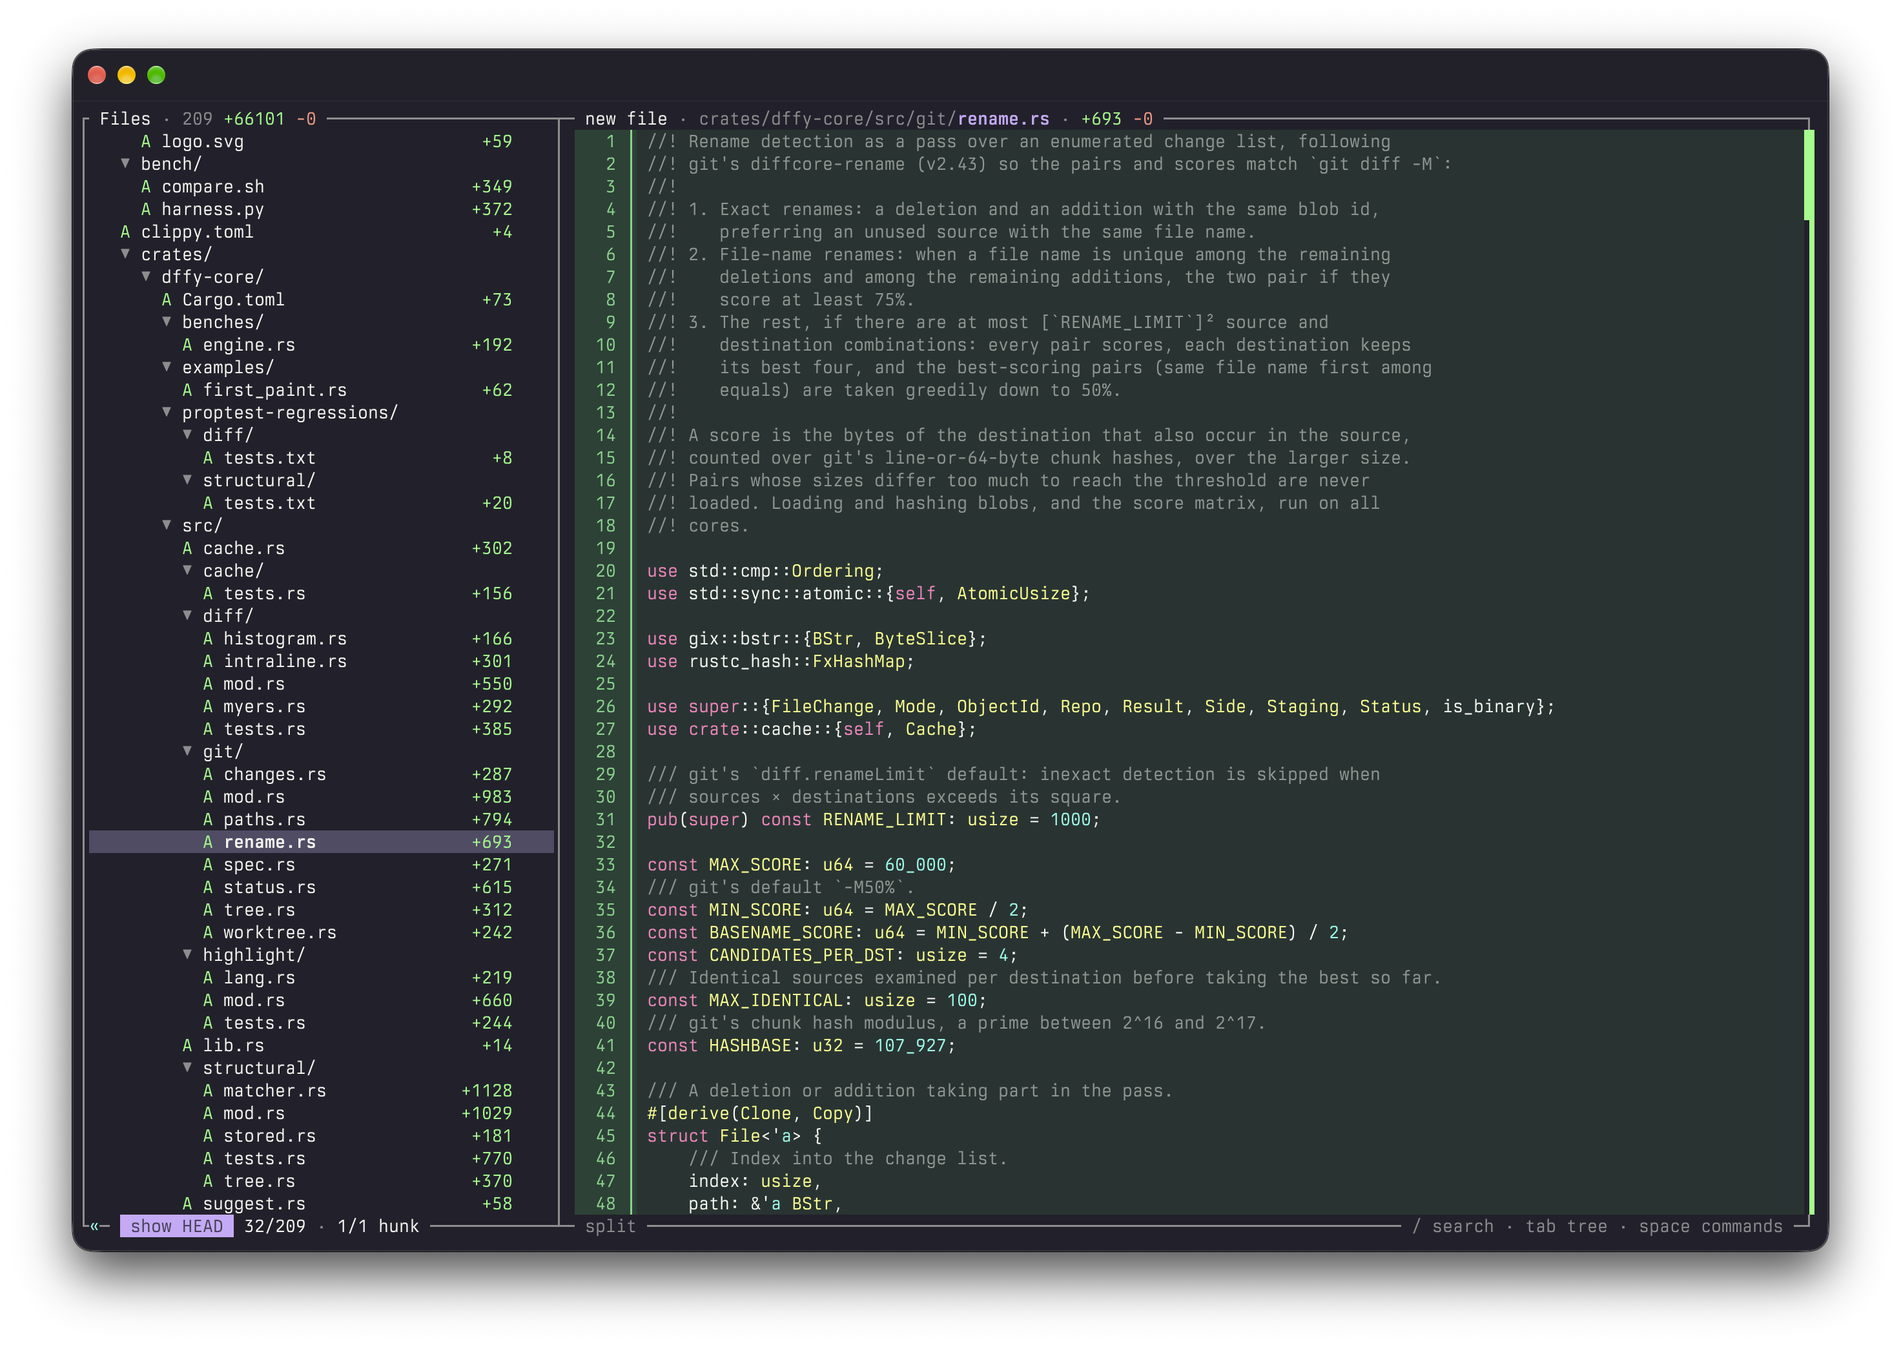
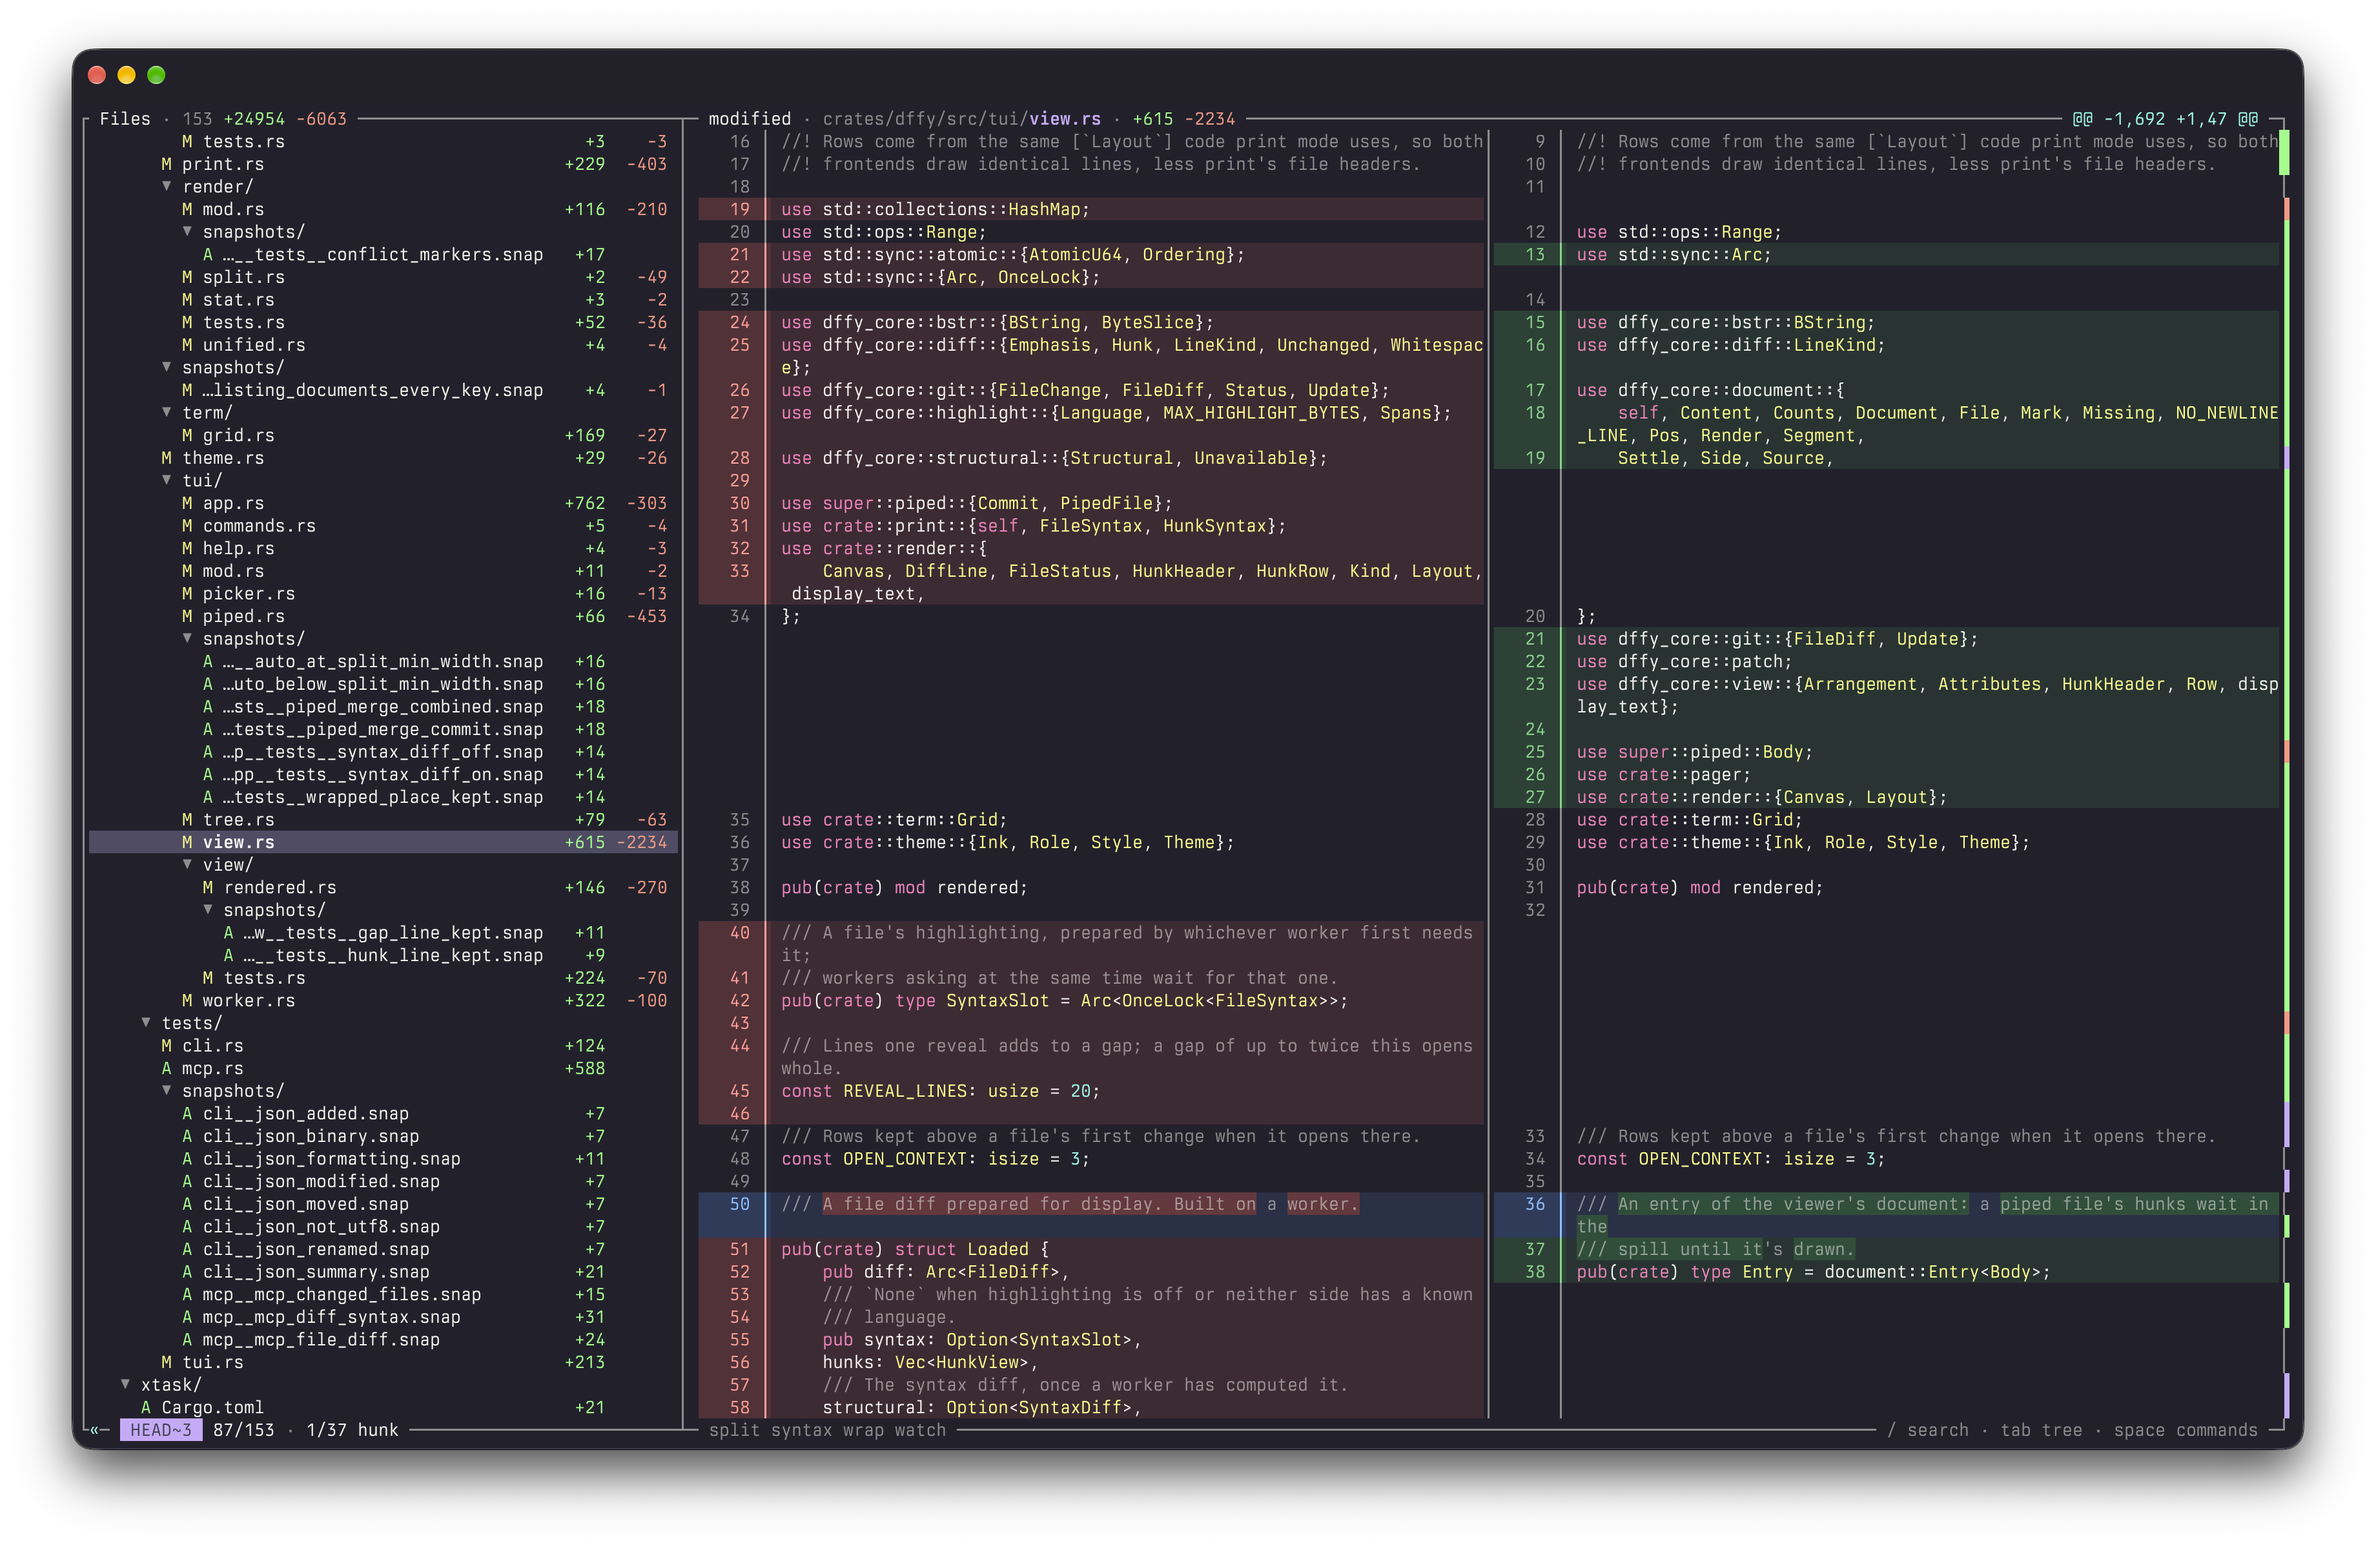
chore: bump and minor details

diff --git a/crates/xtask/src/bump.rs b/crates/xtask/src/bump.rs
@@ -1,0 +1,151 @@
+//! `cargo xtask bump <version>`: sets the release version everywhere it's
+//! written, so `task release` finds the tag matching Cargo. That's the
+//! workspace version (dffy, the plugins, xtask), dffy-core's own version,
+//! and the version requirement of every path dependency between workspace
+//! crates. `Cargo.lock` is refreshed for the workspace crates only.
+
+use std::fs;
+use std::path::{Path, PathBuf};
+use std::process::Command;
+
+use crate::{ROOT, Result, output};
+
+pub(crate) fn main(args: &[String]) -> Result<()> {
+    let [version] = args else {
+        return Err("usage: cargo xtask bump <version>, e.g. 0.3.0".to_owned());
+    };
+    let version = version.strip_prefix('v').unwrap_or(version);
+    if !is_version(version) {
+        return Err(format!(
+            "{version}: not a version of the form MAJOR.MINOR.PATCH"
+        ));
+    }
+    let root = Path::new(ROOT);
+    let mut changed = Vec::new();
+    for path in manifests(root)? {
+        let text = fs::read_to_string(&path).map_err(|e| format!("{}: {e}", path.display()))?;
+        let bumped = bump(&text, version);
+        if bumped != text {
+            fs::write(&path, bumped).map_err(|e| format!("{}: {e}", path.display()))?;
+            changed.push(
+                path.strip_prefix(root)
+                    .unwrap_or(&path)
+                    .display()
+                    .to_string(),
+            );
+        }
+    }
+    output(
+        Command::new("cargo")
+            .args(["update", "--workspace", "--offline"])
+            .current_dir(root),
+    )?;
+    if changed.is_empty() {
+        println!("already at {version}");
+    } else {
+        println!("{version} in {} and Cargo.lock", changed.join(", "));
+    }
+    println!("then commit, and run task release TAG=v{version}");
+    Ok(())
+}
+
+fn is_version(s: &str) -> bool {
+    let parts: Vec<&str> = s.split('.').collect();
+    parts.len() == 3
+        && parts
+            .iter()
+            .all(|p| !p.is_empty() && p.bytes().all(|b| b.is_ascii_digit()))
+}
+
+/// The root manifest and every member's.
+fn manifests(root: &Path) -> Result<Vec<PathBuf>> {
+    let mut paths = vec![root.join("Cargo.toml")];
+    for dir in ["crates", "plugins"] {
+        let dir = root.join(dir);
+        let entries = fs::read_dir(&dir).map_err(|e| format!("{}: {e}", dir.display()))?;
+        for entry in entries {
+            let manifest = entry.map_err(|e| e.to_string())?.path().join("Cargo.toml");
+            if manifest.is_file() {
+                paths.push(manifest);
+            }
+        }
+    }
+    paths.sort();
+    Ok(paths)
+}
+
+/// `text` with `version` in the version line of `[package]` and
+/// `[workspace.package]`, and in every path dependency's requirement. Other
+/// lines, including dependencies from crates.io, stay as they are.
+fn bump(text: &str, version: &str) -> String {
+    let mut section = "";
+    let mut out = String::with_capacity(text.len());
+    for line in text.split_inclusive('\n') {
+        let trimmed = line.trim_start();
+        if trimmed.starts_with('[') {
+            section = trimmed.trim_end();
+        }
+        let package_version = matches!(section, "[package]" | "[workspace.package]")
+            && trimmed.starts_with("version = \"");
+        let path_dependency = trimmed.contains("path = \"") && trimmed.contains("version = \"");
+        let replaced = if package_version || path_dependency {
+            replace_version(line, version)
+        } else {
+            None
+        };
+        out.push_str(replaced.as_deref().unwrap_or(line));
+    }
+    out
+}
+
+/// `line` with the string after its first `version = "` replaced.
+fn replace_version(line: &str, version: &str) -> Option<String> {
+    let start = line.find("version = \"")? + "version = \"".len();
+    let end = start + line[start..].find('"')?;
+    Some(format!("{}{version}{}", &line[..start], &line[end..]))
+}
+
+#[cfg(test)]
+mod tests {
+    use super::*;
+
+    #[test]
+    fn bumps_package_versions_and_path_requirements_only() {
+        let manifest = r#"[workspace.package]
+version = "0.2.0"
+edition = "2024"
+
+[package]
+name = "dffy"
+version = "0.2.0"
+
+[dependencies]
+dffy-core = { version = "0.2.0", path = "../dffy-core" }
+gix = { version = "0.90.0", default-features = false }
+memchr = "2.8.3"
+"#;
+        let want = r#"[workspace.package]
+version = "0.3.0"
+edition = "2024"
+
+[package]
+name = "dffy"
+version = "0.3.0"
+
+[dependencies]
+dffy-core = { version = "0.3.0", path = "../dffy-core" }
+gix = { version = "0.90.0", default-features = false }
+memchr = "2.8.3"
+"#;
+        assert_eq!(bump(manifest, "0.3.0"), want);
+    }
+
+    #[test]
+    fn versions_are_three_numbers() {
+        assert!(is_version("0.3.0"));
+        assert!(is_version("10.20.30"));
+        assert!(!is_version("0.3"));
+        assert!(!is_version("0.3.0-rc1"));
+        assert!(!is_version("v0.3.0"));
+    }
+}

diff --git a/crates/xtask/src/main.rs b/crates/xtask/src/main.rs
@@ -7,8 +7,10 @@
 //! - `compare` times dffy against other diff tools on the kernel range and
 //!   prints the tables in `docs/benchmarks.md`.
 //! - `report` prints a run's tables from its `results.json`.
+//! - `bump` sets the release version in every manifest and `Cargo.lock`.
 
 mod ab;
+mod bump;
 mod compare;
 mod harness;
 mod perf;
@@ -24,6 +26,7 @@ const USAGE: &str = "\
 usage: cargo xtask perf [--quick | --full] [--rev REV] [--rounds N] [--only GROUP,...]
        cargo xtask compare [--scenarios S,...] [--runs N] [--slow-runs N] [--mem-runs N]
        cargo xtask report <run-dir>
+       cargo xtask bump <version>
 advanced:
        cargo xtask bench-baseline <dir>
        cargo xtask bench-ab <base-dir> [--quick] [--rounds N] [--only GROUP,...] [--instructions METRIC,...]
@@ -52,6 +55,7 @@ fn main() -> ExitCode {
         Some((cmd, rest)) if cmd.starts_with("bench-") => ab::main(cmd, rest),
         Some((cmd, rest)) if cmd == "compare" => compare::main(rest).map(|()| true),
         Some((cmd, rest)) if cmd == "report" => results::main(rest).map(|()| true),
+        Some((cmd, rest)) if cmd == "bump" => bump::main(rest).map(|()| true),
         _ => Err(USAGE.to_owned()),
     };
     match result {

diff --git a/crates/dffy/src/mcp.rs b/crates/dffy/src/mcp.rs
@@ -54,7 +54,9 @@ const PAGE_BYTES: usize = 64 << 10;
 const LIST_TTL_MS: u64 = 3_600_000;
 
 const INSTRUCTIONS: &str = "dffy shows the changes in the git repository it was started in. \
-    Start with changed_files to see which files changed and by how much, then call file_diff \
+    Use it instead of git diff, git show or git log -p whenever you need to know what changed: \
+    uncommitted edits (omit range), a branch (range: main...HEAD), the last commits \
+    (range: HEAD~3..HEAD) or any two revisions. Start with changed_files to see which files changed and by how much, then call file_diff \
     for the files that matter. With syntax: true, files whose changes are only formatting or \
     only moved code are classified, so you can skip them. Results are paged: pass next_cursor \
     back as cursor, with the same arguments, to continue.";

diff --git a/README.md b/README.md
@@ -39,7 +39,7 @@ It fits into how you already work. Every action is a single key, the layout adap
 ## Features
 
 **Fast**
-- ⚡ [Opens the Linux v6.0..v6.1 diff in 9.5ms](docs/benchmarks.md) and loads the rest in the background.
+- ⚡ [Opens the Linux v6.0..v6.1 diff in less than 10ms](docs/benchmarks.md) and loads the rest in the background.
 - 👀 [`--watch`](docs/watch.md) repaints as you edit, stage and commit.
 
 **Reading diffs**
@@ -122,19 +122,19 @@ Opening Linux v6.0..v6.1 (13,168 changed files, a 48MB patch) in a viewer, time 
 
 | | `dffy` | `lumen` 2.32.0 | `hunk` 0.25.0 |
 |---|--:|--:|--:|
-| The v6.0..v6.1 range | 9.5ms | 12.4s | 17.7s |
-| The working tree (5 files changed) | 63ms | 1.12s | 790ms |
-| As a pager, `git diff v6.0 v6.1 \| …` | 217ms | n/a | 15.3s |
-| Memory, opening the range | 90MB | 676MB | 4.26GB |
+| The v6.0..v6.1 range | 8.1ms | 12.5s | 18.1s |
+| The working tree (5 files changed) | 77ms | 1.11s | 733ms |
+| As a pager, `git diff v6.0 v6.1 \| …` | 210ms | n/a | 15.2s |
+| Memory, opening the range | 99MB | 676MB | 4.39GB |
 
-As git's pager, `dffy` streams the whole 48MB patch in 3.0MB of its own memory, about as fast as plain `git diff`.
+As git's pager, `dffy` streams the whole 48MB patch in 3.1MB of its own memory, about as fast as plain `git diff`.
 ## Architecture
 
 `dffy` is written in Rust.
 
 - 📚 [A library at its core](docs/architecture.md#crates), `dffy-core`: the diff model the viewer, printed output, JSON and the MCP server all share.
 - 🧮 [Its own diff engine](docs/architecture.md#the-engine): histogram and syntax-aware diffs, renames matching git's.
-- 🖼 [Its own terminal renderer](docs/architecture.md#the-renderer), with no TUI framework. A full frame takes about 200µs.
+- 🖼 [Its own terminal renderer](docs/architecture.md#the-renderer), with no TUI framework. A full frame takes about 150µs.
 - 🌊 [Streamed input and output](docs/architecture.md#data-flow), so the first screen doesn't wait for the whole diff.
 - 🛰 [One shared watcher per repository](docs/architecture.md#watcher-and-broker), however many views are open.
 

diff --git a/docs/mcp.md b/docs/mcp.md
@@ -34,6 +34,16 @@ claude mcp add dffy -- dffy mcp
 
 A client that starts servers outside the repository needs `-C`: `"args": ["-C", "/path/to/repo", "mcp"]`.
 
+## Recommended agent prompt
+
+The server tells agents to use its tools instead of `git diff`, but agents often reach for git in a shell anyway, especially when a request mentions commits. Put this in the project's `CLAUDE.md`, `AGENTS.md` or equivalent:
+
+```
+To see what changed in the current git repository, use dffy tools instead of git diff, git show or git log -p.
+```
+
+In Claude Code, MCP tools can be deferred until the agent searches for them. That makes git in a shell the easier path, so this prompt matters there most.
+
 ## Tools
 
 | Tool | What it returns | When to use it |
